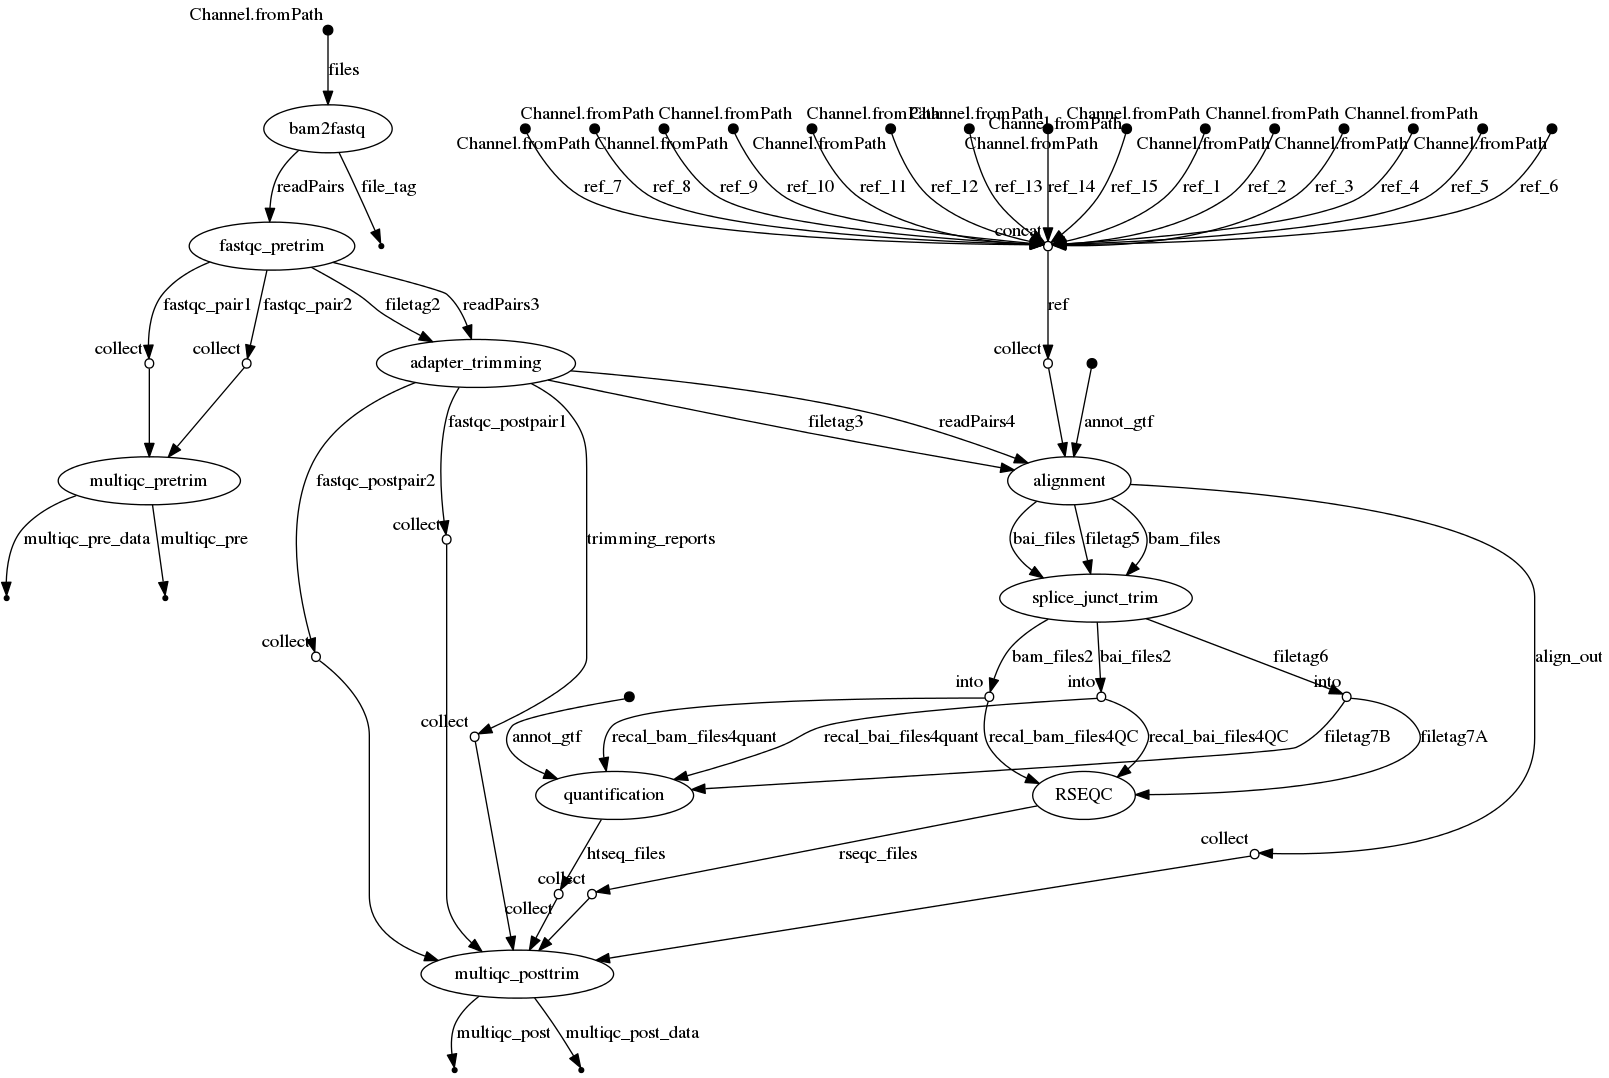
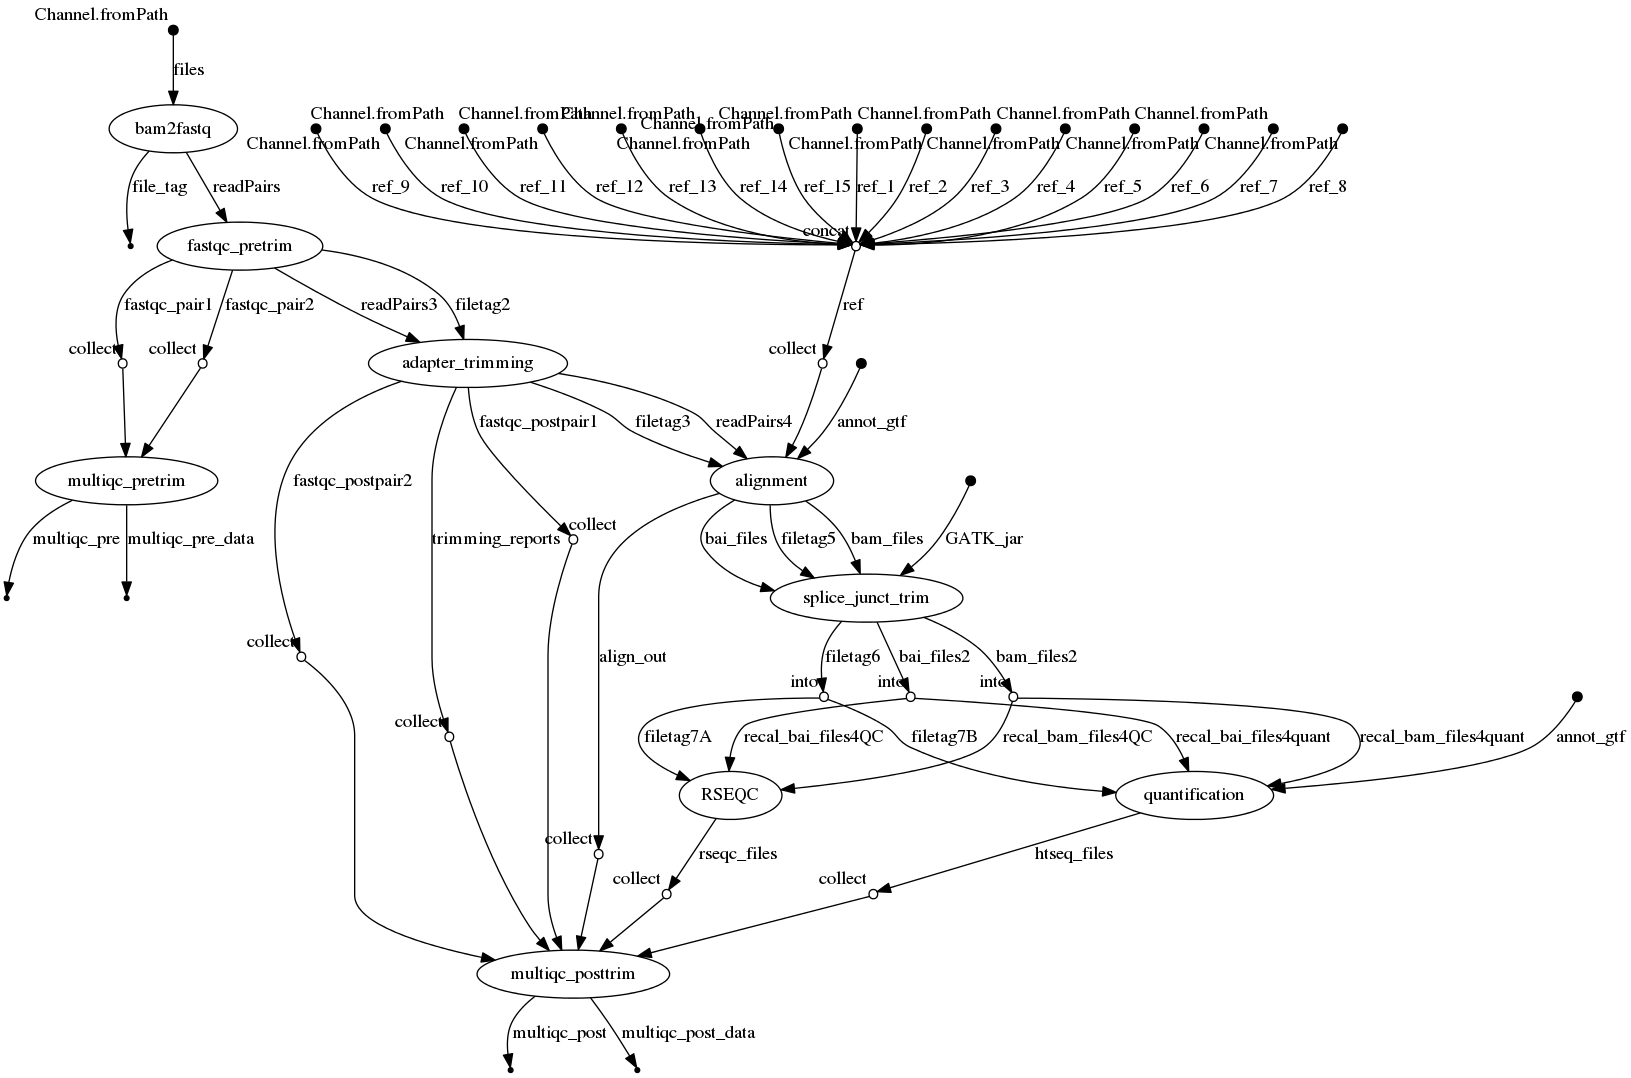
Generated DAG [skip ci]

diff --git a/dag_STAR_sjtrim.html b/dag_STAR_sjtrim.html
@@ -133,27 +133,28 @@ nodes: [
 { data: { id: 'p21', label: 'collect'}, classes: 'OPERATOR' },
 { data: { id: 'p22'}, classes: 'ORIGIN' },
 { data: { id: 'p23', label: 'alignment'}, classes: 'PROCESS' },
-{ data: { id: 'p24', label: 'splice_junct_trim'}, classes: 'PROCESS' },
-{ data: { id: 'p25', label: 'into'}, classes: 'OPERATOR' },
+{ data: { id: 'p24'}, classes: 'ORIGIN' },
+{ data: { id: 'p25', label: 'splice_junct_trim'}, classes: 'PROCESS' },
 { data: { id: 'p26', label: 'into'}, classes: 'OPERATOR' },
 { data: { id: 'p27', label: 'into'}, classes: 'OPERATOR' },
-{ data: { id: 'p28', label: 'RSEQC'}, classes: 'PROCESS' },
-{ data: { id: 'p29'}, classes: 'ORIGIN' },
-{ data: { id: 'p30', label: 'quantification'}, classes: 'PROCESS' },
-{ data: { id: 'p31', label: 'collect'}, classes: 'OPERATOR' },
+{ data: { id: 'p28', label: 'into'}, classes: 'OPERATOR' },
+{ data: { id: 'p29', label: 'RSEQC'}, classes: 'PROCESS' },
+{ data: { id: 'p30'}, classes: 'ORIGIN' },
+{ data: { id: 'p31', label: 'quantification'}, classes: 'PROCESS' },
 { data: { id: 'p32', label: 'collect'}, classes: 'OPERATOR' },
-{ data: { id: 'p33', label: 'multiqc_pretrim'}, classes: 'PROCESS' },
-{ data: { id: 'p34'}, classes: 'NODE' },
+{ data: { id: 'p33', label: 'collect'}, classes: 'OPERATOR' },
+{ data: { id: 'p34', label: 'multiqc_pretrim'}, classes: 'PROCESS' },
 { data: { id: 'p35'}, classes: 'NODE' },
-{ data: { id: 'p36', label: 'collect'}, classes: 'OPERATOR' },
+{ data: { id: 'p36'}, classes: 'NODE' },
 { data: { id: 'p37', label: 'collect'}, classes: 'OPERATOR' },
 { data: { id: 'p38', label: 'collect'}, classes: 'OPERATOR' },
 { data: { id: 'p39', label: 'collect'}, classes: 'OPERATOR' },
 { data: { id: 'p40', label: 'collect'}, classes: 'OPERATOR' },
 { data: { id: 'p41', label: 'collect'}, classes: 'OPERATOR' },
-{ data: { id: 'p42', label: 'multiqc_posttrim'}, classes: 'PROCESS' },
-{ data: { id: 'p43'}, classes: 'NODE' },
+{ data: { id: 'p42', label: 'collect'}, classes: 'OPERATOR' },
+{ data: { id: 'p43', label: 'multiqc_posttrim'}, classes: 'PROCESS' },
 { data: { id: 'p44'}, classes: 'NODE' },
+{ data: { id: 'p45'}, classes: 'NODE' },
 ],
 edges: [
 { data: { source: 'p0', target: 'p15', label: 'ref_1' } },
@@ -175,45 +176,46 @@ edges: [
 { data: { source: 'p16', target: 'p17', label: 'files' } },
 { data: { source: 'p17', target: 'p18', label: 'file_tag' } },
 { data: { source: 'p17', target: 'p19', label: 'readPairs' } },
-{ data: { source: 'p19', target: 'p31', label: 'fastqc_pair1' } },
-{ data: { source: 'p19', target: 'p32', label: 'fastqc_pair2' } },
+{ data: { source: 'p19', target: 'p32', label: 'fastqc_pair1' } },
+{ data: { source: 'p19', target: 'p33', label: 'fastqc_pair2' } },
 { data: { source: 'p19', target: 'p20', label: 'readPairs3' } },
 { data: { source: 'p19', target: 'p20', label: 'filetag2' } },
 { data: { source: 'p20', target: 'p23', label: 'filetag3' } },
 { data: { source: 'p20', target: 'p23', label: 'readPairs4' } },
-{ data: { source: 'p20', target: 'p36', label: 'fastqc_postpair1' } },
-{ data: { source: 'p20', target: 'p37', label: 'fastqc_postpair2' } },
-{ data: { source: 'p20', target: 'p41', label: 'trimming_reports' } },
+{ data: { source: 'p20', target: 'p37', label: 'fastqc_postpair1' } },
+{ data: { source: 'p20', target: 'p38', label: 'fastqc_postpair2' } },
+{ data: { source: 'p20', target: 'p42', label: 'trimming_reports' } },
 { data: { source: 'p21', target: 'p23'} },
 { data: { source: 'p22', target: 'p23', label: 'annot_gtf' } },
-{ data: { source: 'p23', target: 'p24', label: 'filetag5' } },
-{ data: { source: 'p23', target: 'p24', label: 'bam_files' } },
-{ data: { source: 'p23', target: 'p24', label: 'bai_files' } },
-{ data: { source: 'p23', target: 'p38', label: 'align_out' } },
-{ data: { source: 'p24', target: 'p27', label: 'filetag6' } },
-{ data: { source: 'p24', target: 'p25', label: 'bam_files2' } },
-{ data: { source: 'p24', target: 'p26', label: 'bai_files2' } },
-{ data: { source: 'p25', target: 'p28', label: 'recal_bam_files4QC' } },
-{ data: { source: 'p25', target: 'p30', label: 'recal_bam_files4quant' } },
-{ data: { source: 'p26', target: 'p28', label: 'recal_bai_files4QC' } },
-{ data: { source: 'p26', target: 'p30', label: 'recal_bai_files4quant' } },
-{ data: { source: 'p27', target: 'p28', label: 'filetag7A' } },
-{ data: { source: 'p27', target: 'p30', label: 'filetag7B' } },
-{ data: { source: 'p28', target: 'p40', label: 'rseqc_files' } },
-{ data: { source: 'p29', target: 'p30', label: 'annot_gtf' } },
-{ data: { source: 'p30', target: 'p39', label: 'htseq_files' } },
-{ data: { source: 'p31', target: 'p33'} },
-{ data: { source: 'p32', target: 'p33'} },
-{ data: { source: 'p33', target: 'p35', label: 'multiqc_pre' } },
-{ data: { source: 'p33', target: 'p34', label: 'multiqc_pre_data' } },
-{ data: { source: 'p36', target: 'p42'} },
-{ data: { source: 'p37', target: 'p42'} },
-{ data: { source: 'p38', target: 'p42'} },
-{ data: { source: 'p39', target: 'p42'} },
-{ data: { source: 'p40', target: 'p42'} },
-{ data: { source: 'p41', target: 'p42'} },
-{ data: { source: 'p42', target: 'p44', label: 'multiqc_post' } },
-{ data: { source: 'p42', target: 'p43', label: 'multiqc_post_data' } },
+{ data: { source: 'p23', target: 'p25', label: 'filetag5' } },
+{ data: { source: 'p23', target: 'p25', label: 'bam_files' } },
+{ data: { source: 'p23', target: 'p25', label: 'bai_files' } },
+{ data: { source: 'p23', target: 'p39', label: 'align_out' } },
+{ data: { source: 'p24', target: 'p25', label: 'GATK_jar' } },
+{ data: { source: 'p25', target: 'p28', label: 'filetag6' } },
+{ data: { source: 'p25', target: 'p26', label: 'bam_files2' } },
+{ data: { source: 'p25', target: 'p27', label: 'bai_files2' } },
+{ data: { source: 'p26', target: 'p29', label: 'recal_bam_files4QC' } },
+{ data: { source: 'p26', target: 'p31', label: 'recal_bam_files4quant' } },
+{ data: { source: 'p27', target: 'p29', label: 'recal_bai_files4QC' } },
+{ data: { source: 'p27', target: 'p31', label: 'recal_bai_files4quant' } },
+{ data: { source: 'p28', target: 'p29', label: 'filetag7A' } },
+{ data: { source: 'p28', target: 'p31', label: 'filetag7B' } },
+{ data: { source: 'p29', target: 'p41', label: 'rseqc_files' } },
+{ data: { source: 'p30', target: 'p31', label: 'annot_gtf' } },
+{ data: { source: 'p31', target: 'p40', label: 'htseq_files' } },
+{ data: { source: 'p32', target: 'p34'} },
+{ data: { source: 'p33', target: 'p34'} },
+{ data: { source: 'p34', target: 'p36', label: 'multiqc_pre' } },
+{ data: { source: 'p34', target: 'p35', label: 'multiqc_pre_data' } },
+{ data: { source: 'p37', target: 'p43'} },
+{ data: { source: 'p38', target: 'p43'} },
+{ data: { source: 'p39', target: 'p43'} },
+{ data: { source: 'p40', target: 'p43'} },
+{ data: { source: 'p41', target: 'p43'} },
+{ data: { source: 'p42', target: 'p43'} },
+{ data: { source: 'p43', target: 'p45', label: 'multiqc_post' } },
+{ data: { source: 'p43', target: 'p44', label: 'multiqc_post_data' } },
 ],
 },
 
